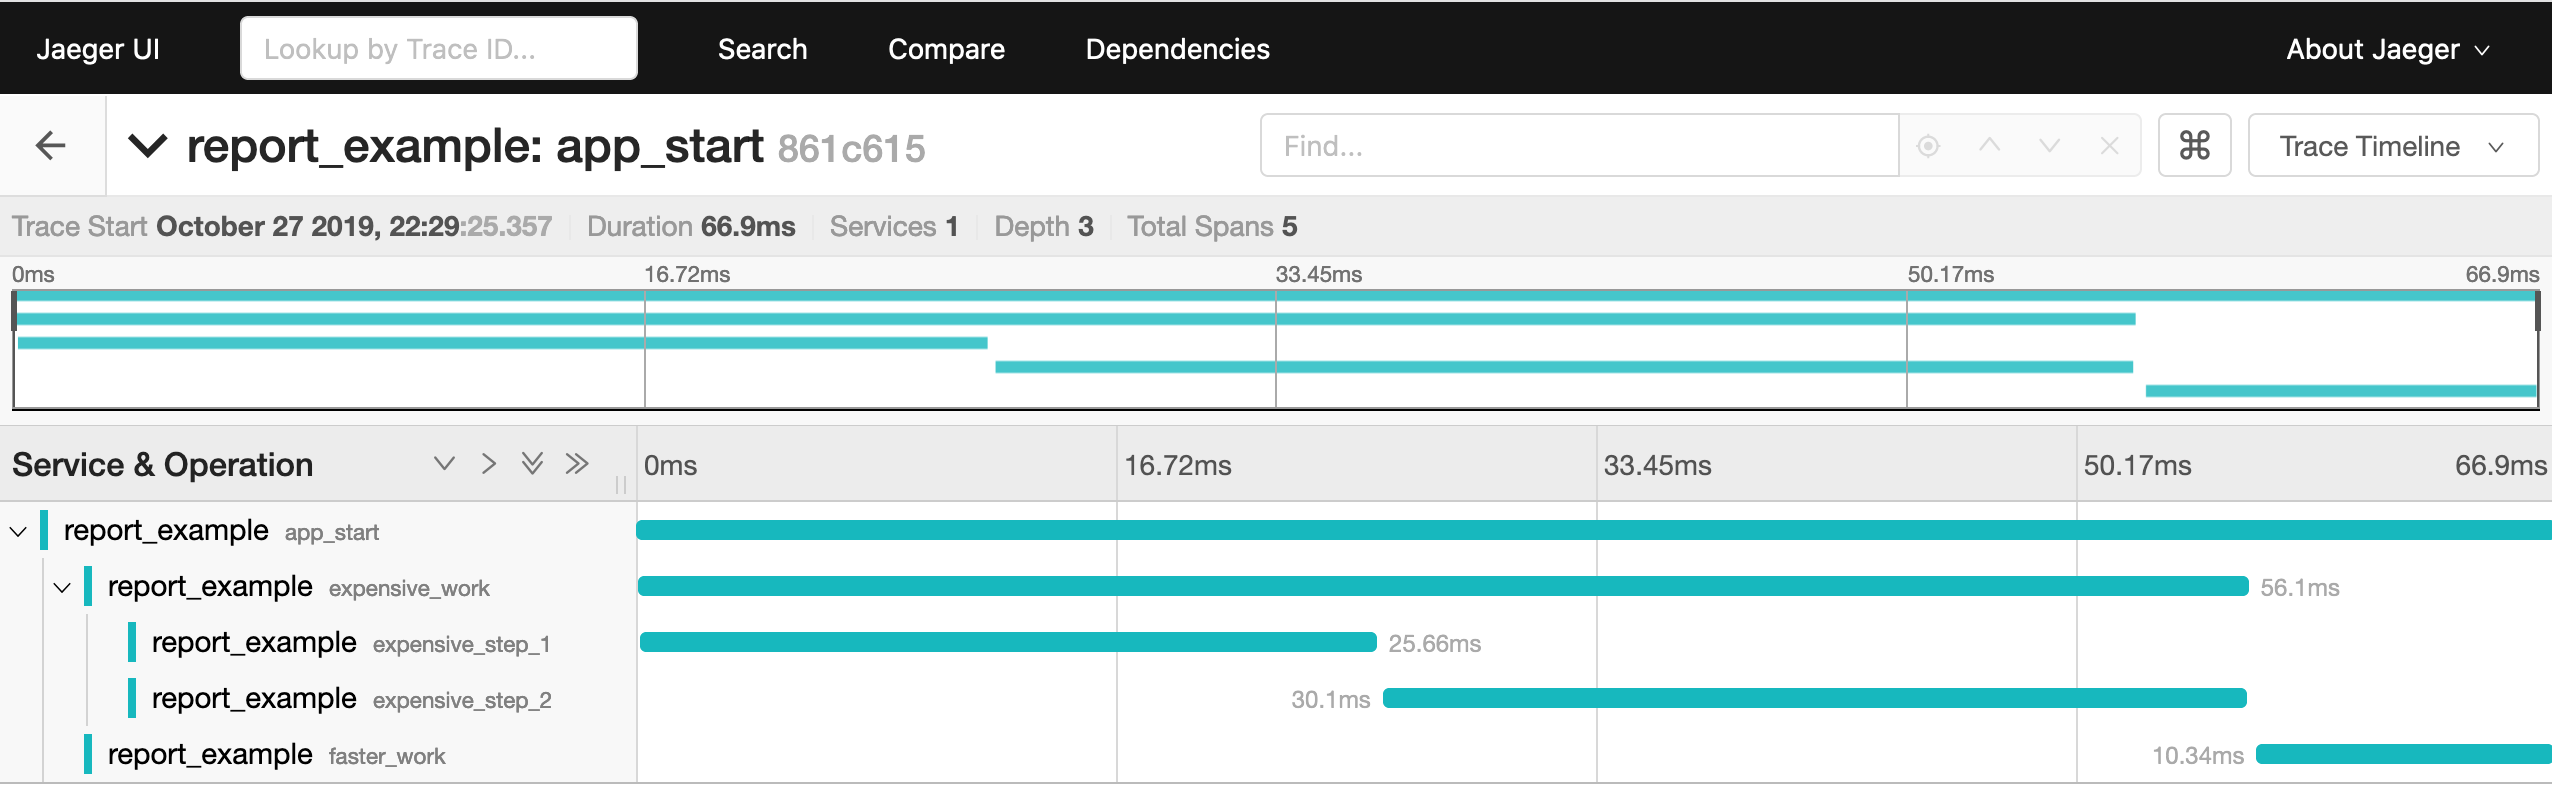
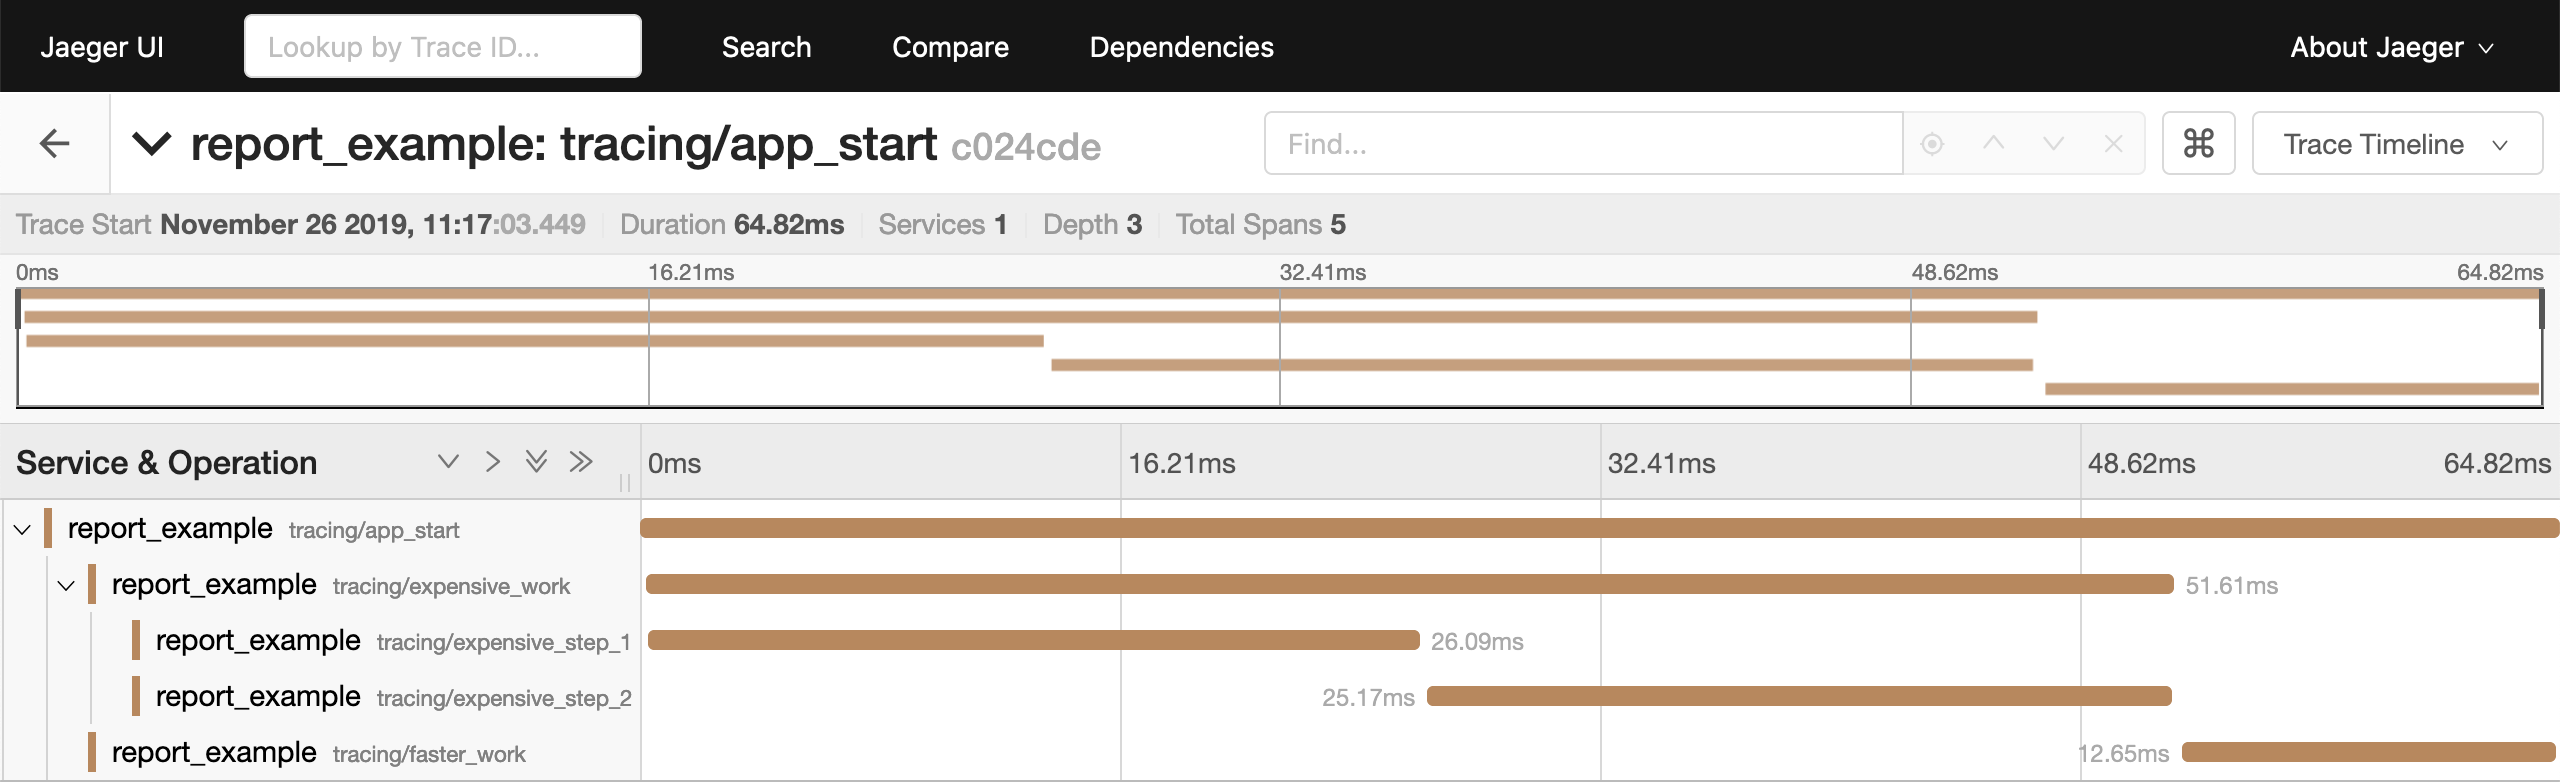
Sync example report and screenshot in README

diff --git a/examples/report.rs b/examples/report.rs
@@ -1,8 +1,7 @@
 #[macro_use]
 extern crate tracing;
 
-use opentelemetry::api::Provider;
-use opentelemetry::sdk;
+use opentelemetry::{api::{Provider, Sampler}, exporter::trace::jaeger, global, sdk};
 use std::{thread, time::Duration};
 use tracing_attributes::instrument;
 use tracing_opentelemetry::OpentelemetryLayer;
@@ -19,8 +18,27 @@ fn expensive_work() -> String {
     format!("success")
 }
 
+fn init_tracer() {
+    let exporter = jaeger::Exporter::builder()
+        .with_collector_endpoint("127.0.0.1:6831".parse().unwrap())
+        .with_process(jaeger::Process {
+            service_name: "report_example",
+            tags: Vec::new(),
+        })
+        .init();
+    let provider = sdk::Provider::builder()
+        .with_exporter(exporter)
+        .with_config(sdk::Config {
+            default_sampler: Sampler::Always,
+            ..Default::default()
+        })
+        .build();
+    global::set_provider(provider);
+}
+
 fn main() {
-    let tracer = sdk::Provider::default().get_tracer("report_example");
+    init_tracer();
+    let tracer = global::trace_provider().get_tracer("tracing");
     let opentelemetry = OpentelemetryLayer::with_tracer(tracer);
     let subscriber = opentelemetry.with_subscriber(Registry::default());
 

diff --git a/README.md b/README.md
@@ -29,7 +29,7 @@ use tracing_subscriber::{Layer, Registry};
 
 fn main() {
     // Create a new tracer
-    let tracer = sdk::Provider::default().get_tracer("service_name");
+    let tracer = sdk::Provider::default().get_tracer("component_name");
 
     // Create a new tracing layer
     let layer = OpentelemetryLayer::with_tracer(tracer);
